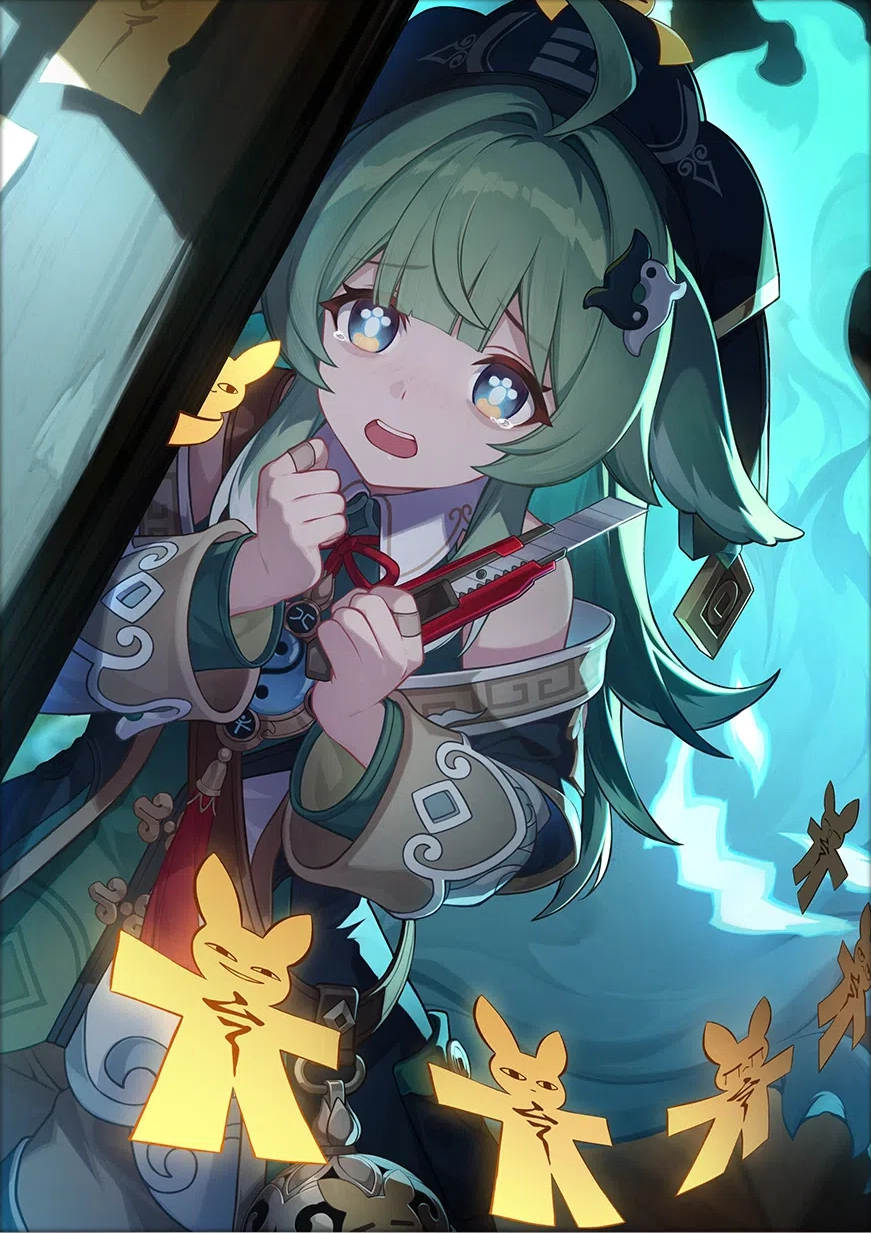
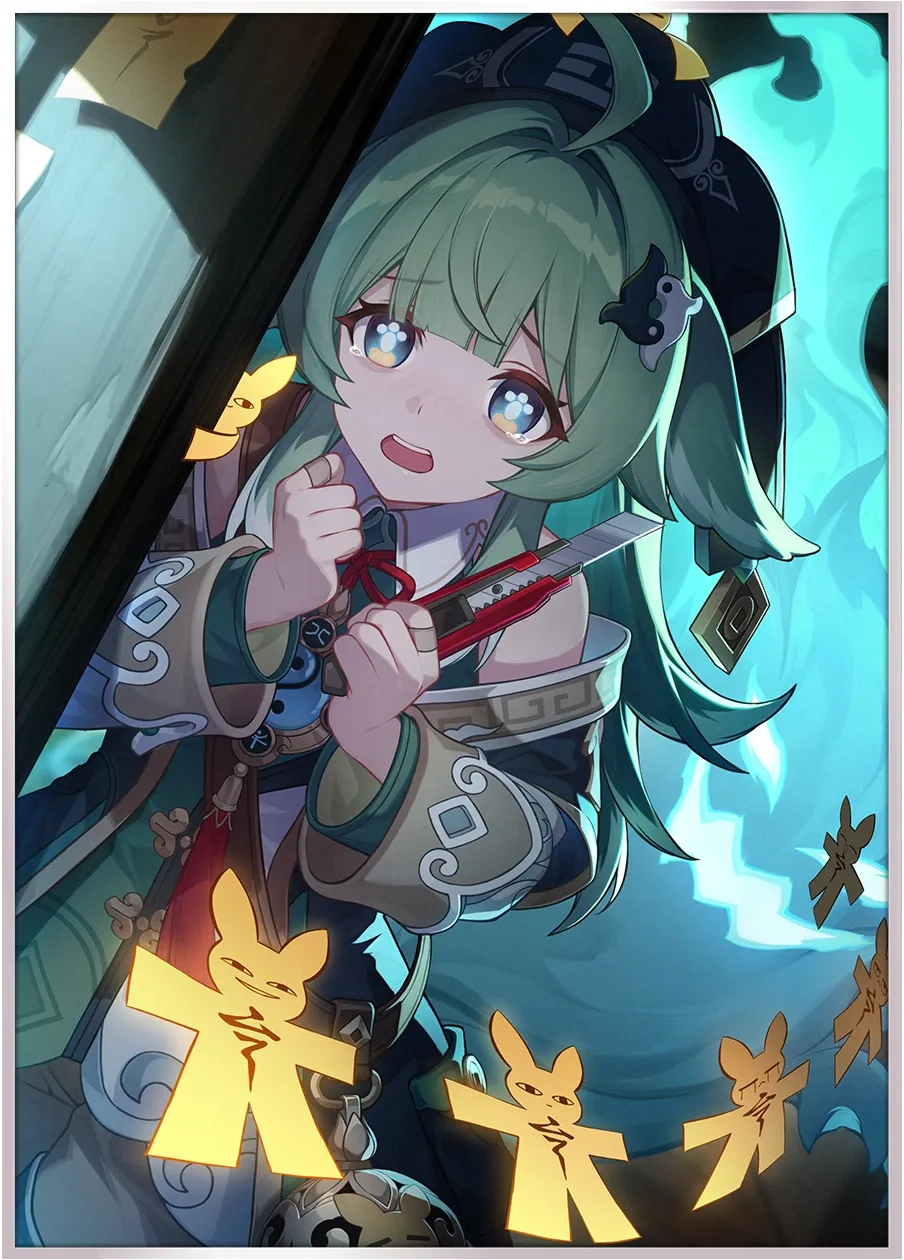
update viền

diff --git a/src/data/tierlist.ts b/src/data/tierlist.ts
@@ -22,34 +22,34 @@ type TierListData = {
 // Dữ liệu mẫu
 const tierList: TierListData = {
   'Memory of Chaos': {
-    T0: { DPS: ['aglaea','anaxa','archer','castorice','phainon'], 'Support DPS': ['tribbie'], Amplifier: ['cipher','robin','sunday','male-remembrance'], Sustain: ['huohuo','hyacine'] },
-    T0_5: { DPS: ['mydei','saber','therta'], 'Support DPS': ['jade'], Amplifier: ['ruan-mei','silver-wolf'], Sustain: ['aventurine','gallagher','lingsha'] },
-    T1: { DPS: ['acheron','blade','feixiao','rappa','yunli'], 'Support DPS': ['argenti','black-swan','herta','kafka','topaz-numby'], Amplifier: ['bronya','jiaoqiu','sparkle','fugue'], Sustain: ['luocha'] },
-    T1_5: { DPS: ['boothill','firefly','jing-yuan','jingliu'], 'Support DPS': ['march-7th-the-hunt','serval'], Amplifier: ['pela','tingyun'], Sustain: ['fu-xuan'] },
+    T0: { DPS: ['anaxa','archer','castorice','hysilens','phainon'], 'Support DPS': ['tribbie'], Amplifier: ['cipher','robin','sunday','male-remembrance'], Sustain: ['huohuo','hyacine'] },
+    T0_5: { DPS: ['aglaea','mydei','saber','therta'], 'Support DPS': ['jade','kafka'], Amplifier: ['bronya','ruan-mei','silver-wolf','sparkle'], Sustain: ['aventurine','gallagher','lingsha'] },
+    T1: { DPS: ['acheron','blade','feixiao','jingliu','yunli'], 'Support DPS': ['argenti','black-swan','herta','topaz-numby'], Amplifier: ['jiaoqiu','tingyun'], Sustain: ['luocha'] },
+    T1_5: { DPS: ['boothill','firefly','jing-yuan','rappa'], 'Support DPS': ['march-7th-the-hunt','serval'], Amplifier: ['pela','fugue'], Sustain: ['fu-xuan'] },
     T2: { DPS: ['himeko'], 'Support DPS': ['moze'], Amplifier: ['male-harmony'], Sustain: [] },
     T3: { DPS: ['clara','dr-ratio','dan-heng-imbibitor-lunae','qingque','seele'], 'Support DPS': [], Amplifier: ['asta','guinaifen'], Sustain: ['bailu','lynx'] },
     T4: { DPS: ['luka','xueyi'], 'Support DPS': ['sampo','welt'], Amplifier: ['hanya'], Sustain: ['gepard'] },
-    T5: { DPS: ['arlan','dan-heng','hook','misha','sushang','male-destruction','yanqing'], 'Support DPS': [], Amplifier: ['yukong'], Sustain: ['march-7th','natasha','male-preservation'] },
+    T5: { DPS: ['arlan','dan-heng','hook','misha','sushang','male-destruction','xueyi','yanqing'], 'Support DPS': [], Amplifier: ['yukong'], Sustain: ['march-7th','natasha','male-preservation'] },
   },
   'Pure Fiction': {
     T0: { DPS: ['castorice','therta'], 'Support DPS': ['jade','tribbie'], Amplifier: ['male-remembrance'], Sustain: ['hyacine'] },
-    T0_5: { DPS: ['anaxa','argenti','phainon'], 'Support DPS': ['herta'], Amplifier: ['robin','ruan-mei','sunday'], Sustain: ['aventurine','huohuo','lingsha'] },
-    T1: { DPS: ['acheron','blade','jing-yuan','rappa','saber'], 'Support DPS': ['black-swan','kafka','serval'], Amplifier: ['cipher','jiaoqiu','fugue'], Sustain: ['fu-xuan','gallagher','luocha'] },
-    T1_5: { DPS: ['aglaea','mydei'], 'Support DPS': [], Amplifier: ['pela','silver-wolf','sparkle','male-harmony'], Sustain: [] },
-    T2: { DPS: ['himeko','yunli'], 'Support DPS': [], Amplifier: ['bronya','tingyun'], Sustain: [] },
-    T3: { DPS: ['clara','feixiao','firefly','jingliu'], 'Support DPS': [], Amplifier: [], Sustain: ['gepard'] },
-    T4: { DPS: ['dan-heng-imbibitor-lunae','qingque','seele','xueyi'], 'Support DPS': ['march-7th-the-hunt','topaz-numby','welt'], Amplifier: ['asta','guinaifen'], Sustain: ['bailu','lynx'] },
-    T5: { DPS: ['archer','arlan','boothill','dan-heng','dr-ratio','hook'], 'Support DPS': ['moze','sampo'], Amplifier: ['hanya','yukong'], Sustain: ['march-7th','natasha','male-preservation'] },
+    T0_5: { DPS: ['anaxa','argenti','hysilens','phainon'], 'Support DPS': ['herta','kafka'], Amplifier: ['cipher','robin','ruan-mei','sunday'], Sustain: ['aventurine','huohuo','lingsha'] },
+    T1: { DPS: ['acheron','blade','jing-yuan','rappa','saber'], 'Support DPS': ['black-swan','serval'], Amplifier: ['bronya','jiaoqiu','sparkle','tingyun','fugue'], Sustain: ['fu-xuan','gallagher','luocha'] },
+    T1_5: { DPS: ['aglaea','mydei'], 'Support DPS': [], Amplifier: ['pela','silver-wolf','male-harmony'], Sustain: [] },
+    T2: { DPS: ['himeko','yunli'], 'Support DPS': [], Amplifier: [], Sustain: [] },
+    T3: { DPS: ['clara','feixiao','firefly','jingliu'], 'Support DPS': [], Amplifier: [], Sustain: ['bailu','lynx'] },
+    T4: { DPS: ['seele'], 'Support DPS': ['march-7th-the-hunt','topaz-numby'], Amplifier: ['guinaifen'], Sustain: ['gepard'] },
+    T5: { DPS: ['archer','arlan','boothill','dan-heng','dr-ratio','hook','dan-heng-imbibitor-lunae','luka','misha','qingque','sushang','male-destruction','xueyi','yanqing'], 'Support DPS': ['moze','sampo','welt'], Amplifier: ['asta','hanya','yukong'], Sustain: ['march-7th','natasha','male-preservation'] },
   },
   'Apocalyptic Shadow': {
-    T0: { DPS: ['anaxa','archer','castorice','feixiao','phainon','therta'], 'Support DPS': ['tribbie'], Amplifier: ['cipher','robin','ruan-mei','silver-wolf','sunday','male-remembrance'], Sustain: ['hyacine'] },
-    T0_5: { DPS: ['aglaea','boothill','firefly','mydei','saber'], 'Support DPS': ['jade','march-7th-the-hunt'], Amplifier: ['bronya','sparkle','fugue'], Sustain: ['aventurine','gallagher','huohuo','lingsha'] },
-    T1: { DPS: ['acheron','jingliu','rappa'], 'Support DPS': ['argenti','herta','topaz-numby'], Amplifier: ['jiaoqiu','tingyun','male-harmony'], Sustain: ['fu-xuan','luocha'] },
-    T1_5: { DPS: ['blade','yunli'], 'Support DPS': ['black-swan','kafka','serval'], Amplifier: ['pela'], Sustain: [] },
-    T2: { DPS: ['himeko','jing-yuan'], 'Support DPS': ['moze'], Amplifier: [], Sustain: ['bailu','gepard'] },
+    T0: { DPS: ['anaxa','archer','castorice','feixiao','phainon'], 'Support DPS': ['tribbie'], Amplifier: ['cipher','robin','ruan-mei','silver-wolf','sunday','male-remembrance'], Sustain: ['hyacine'] },
+    T0_5: { DPS: ['aglaea','boothill','firefly','mydei','saber','therta'], 'Support DPS': ['march-7th-the-hunt'], Amplifier: ['bronya','sparkle','tingyun','fugue'], Sustain: ['aventurine','gallagher','huohuo','lingsha'] },
+    T1: { DPS: ['blade','hysilens','rappa'], 'Support DPS': ['jade','kafka','topaz-numby'], Amplifier: ['jiaoqiu','male-harmony'], Sustain: ['fu-xuan','luocha'] },
+    T1_5: { DPS: ['acheron','jingliu','yunli'], 'Support DPS': ['argenti','black-swan','herta'], Amplifier: ['pela'], Sustain: [] },
+    T2: { DPS: ['himeko','jing-yuan'], 'Support DPS': ['moze','serval'], Amplifier: [], Sustain: ['bailu','gepard'] },
     T3: { DPS: ['clara','dr-ratio','dan-heng-imbibitor-lunae','seele'], 'Support DPS': [], Amplifier: ['asta','hanya'], Sustain: ['lynx'] },
-    T4: { DPS: ['qingque','sushang','xueyi'], 'Support DPS': ['welt'], Amplifier: ['guinaifen','yukong'], Sustain: [] },
-    T5: { DPS: ['arlan','dan-heng','hook','luka','misha','male-destruction','yanqing'], 'Support DPS': ['sampo'], Amplifier: [], Sustain: ['march-7th','natasha','male-preservation'] },
+    T4: { DPS: ['sushang','xueyi'], 'Support DPS': ['welt'], Amplifier: ['guinaifen','yukong'], Sustain: [] },
+    T5: { DPS: ['arlan','dan-heng','hook','luka','misha','qingque','male-destruction','yanqing'], 'Support DPS': ['sampo'], Amplifier: [], Sustain: ['march-7th','natasha','male-preservation'] },
   }
 };
 

diff --git a/src/routes/tierlist/+page.svelte b/src/routes/tierlist/+page.svelte
@@ -101,23 +101,26 @@
   {#each gameModes as mode}
     <!-- svelte-ignore a11y-click-events-have-key-events -->
     <div
-      class={`relative h-20 md:h-40 border rounded-lg shadow-lg cursor-pointer overflow-hidden group transition duration-300 ${
-        selectedMode === mode.id ? 'border-white/100 brightness-100' : 'border-white/20 brightness-75 hover:brightness-90'
-      }`}
+      class="mode-card"
+      class:selected={selectedMode === mode.id}
+      class:unselected={selectedMode !== mode.id}
       on:click={() => (selectedMode = mode.id)}
     >
-      <img
-        src={mode.image}
-        alt={mode.label}
-        class="absolute inset-0 w-full h-full object-cover group-hover:scale-110 transition-transform duration-300"
-      />
-      <div class="absolute inset-0 bg-black/40" />
-      <div class="absolute inset-0 flex items-center justify-center">
-        <span class="text-white text-2xl font-bold" style="text-shadow: 1.5px 1.5px 1.5px black">{mode.label}</span>
+      <div class="mode-card-content">
+        <img
+          src={mode.image}
+          alt={mode.label}
+          class="absolute inset-0 w-full h-full object-cover"
+        />
+        <div class="absolute inset-0 bg-black/40" />
+        <div class="absolute inset-0 flex items-center justify-center">
+          <span class="mode-label">{mode.label}</span>
+        </div>
       </div>
     </div>
   {/each}
 </div>
+
 
 <!-- Title -->
 <h2 class="text-2xl font-bold text-center mb-2">
@@ -193,3 +196,109 @@
   <TierTableMobile data={tierList[selectedMode]} isVisible={isVisibleFn} {editMode} 
     on:update={(e) => tierList[selectedMode] = e.detail} />
 </div>
+
+<style>
+  .mode-card {
+    position: relative;
+    border-radius: 0.75em;
+    cursor: pointer;
+    height: 80px;
+    overflow: hidden;
+    transition: all 0.3s;
+  }
+
+  @media (min-width: 768px) {
+    .mode-card {
+      height: 160px;
+    }
+  }
+
+  /* Viền gradient dày hơn */
+  .mode-card::before {
+    content: "";
+    position: absolute;
+    inset: -3px; /* tăng độ dày */
+    border-radius: inherit;
+    background: linear-gradient(
+      50deg,
+      transparent 5%,
+      rgb(255, 222, 156) 50%,
+      transparent 99%
+    );
+    opacity: 0;
+    transition: opacity 400ms;
+    z-index: 0;
+  }
+
+  .mode-card:hover::before {
+    opacity: 1;
+  }
+
+  /* Card được chọn */
+  .mode-card.selected::before {
+    opacity: 1;
+    box-shadow: 
+      0 0 20px rgba(255, 200, 120, 0.9),
+      0 0 40px rgba(255, 200, 120, 0.7),
+      0 0 80px rgba(255, 200, 120, 0.5),
+      0 0 120px rgba(255, 200, 120, 0.3);
+    filter: drop-shadow(0 0 25px rgba(255, 200, 120, 0.3));
+  }
+
+  /* Nội dung */
+  .mode-card-content {
+    position: absolute;
+    inset: 1px;
+    border-radius: inherit;
+    background-color: rgba(20, 20, 20, 0.8);
+    overflow: hidden;
+    z-index: 1;
+    transition: filter 0.3s;
+  }
+
+  .mode-label {
+    color: white;
+    font-weight: bold;
+    font-size: 1.25rem;
+    text-align: center;
+    text-shadow: 1.5px 1.5px 1.5px black;
+    transition: opacity 0.3s, filter 0.3s;
+  }
+
+  @media (min-width: 768px) {
+    .mode-label {
+      font-size: 1.5rem;
+    }
+  }
+
+  /* Chưa được chọn → tối hơn */
+  .mode-card.unselected img {
+    filter: brightness(60%);
+  }
+
+  .mode-card.unselected .mode-label {
+    opacity: 0.6;
+  }
+
+  /* Hover làm sáng hơn một chút */
+  .mode-card.unselected:hover img {
+    filter: brightness(75%);
+  }
+
+  /* Selected luôn sáng rõ */
+  .mode-card.selected img {
+    filter: brightness(100%);
+  }
+
+  .mode-card.selected .mode-label {
+    opacity: 1;
+  }
+
+  /* Zoom nhẹ khi hover */
+  .mode-card img {
+    transition: transform 300ms, filter 300ms;
+  }
+  .mode-card:hover img {
+    transform: scale(1.1);
+  }
+</style>

diff --git a/src/routes/lightcones/[id]/+page.svelte b/src/routes/lightcones/[id]/+page.svelte
@@ -50,6 +50,20 @@
     abundance: 'Trù Phú',
     remembrance: 'Ký Ức'
   }
+
+  let container: HTMLElement;
+
+	const handleMouseMove = (e: MouseEvent) => {
+		const rect = container.getBoundingClientRect();
+		const x = e.clientX - rect.left;
+		const y = e.clientY - rect.top;
+		container.style.setProperty('--x', `${x}px`);
+		container.style.setProperty('--y', `${y}px`);
+	};
+  const handleMouseLeave = () => {
+		container.style.setProperty('--x', `50%`);
+		container.style.setProperty('--y', `50%`);
+	};
 </script>
 
 <section class="text-white">
@@ -157,7 +171,7 @@
         <div class="flex gap-2">
           <div
             class="
-              mt-2 p-3 md:p2 bg-dark/50 rounded-xl box
+              mt-2 p-3 md:p2 bg-dark/50 rounded-xl border-gradient
               overflow-x-auto md:overflow-visible
               w-full
               flex md:grid
@@ -168,6 +182,9 @@
             grid-template-columns: repeat(auto-fit, minmax(7rem, max-content));
             justify-content: center;
           "
+          bind:this={container}
+          on:mousemove={handleMouseMove}
+          on:mouseleave={handleMouseLeave}
           >
             {#each lightcone.recommendedFor as id}
               {#if getCharacter(id)}
@@ -232,45 +249,17 @@ input[type="range"].range-gradient::-moz-range-thumb {
   cursor: pointer;
 }
 
-  .box {
+  .border-gradient {
+		--x: 50%;
+		--y: 50%;
 
-		display: grid;
-		place-content: center;
-		color: #fff;
-		text-shadow: 0 1px 0 #000;
-		
-		--border-angle: 0turn; /* for animation */
-		--main-bg: conic-gradient(from var(--border-angle), #000);
-
-		border: solid 2px transparent;
-		border-radius: 1em;
-		
-		--gradient-border: conic-gradient(
-			from var(--border-angle),
-			transparent 0%,
-			#4f78be,
-			#b087ff 50%,
-      #fbcd74 100%,
-			transparent
-		);
-
+		border: 3px solid transparent;
+		border-radius: 12px;
+		padding: 1rem;
 		background:
-			var(--main-bg) padding-box,            /* fill content */
-			var(--gradient-border) border-box,    /* gradient border */
-			var(--main-bg) border-box;            /* fallback */
-
-		background-position: center;
-		animation: bg-spin 8s linear infinite;
-	}
-
-	@property --border-angle {
-		syntax: "<angle>";
-		inherits: true;
-		initial-value: 0turn;
-	}
-
-	@keyframes bg-spin {
-		to { --border-angle: 1turn; }
+			linear-gradient(#000, #000) padding-box,
+			radial-gradient(farthest-corner at var(--x) var(--y), #00C9A7, #845EC2) border-box;
+		transition: background-position .15s;
 	}
 
 </style>

diff --git a/src/routes/lightcones/+page.svelte b/src/routes/lightcones/+page.svelte
@@ -95,7 +95,7 @@
     <input type="text" class="form__field" placeholder="Name"
 		bind:value={searchQuery}
 		on:input={filterList}>
-    <label for="name" class="form__label">Tìm kiếm</label>
+    <label for="name" class="form__label">Tìm Kiếm</label>
 </div>
 
 <div class="flex flex-wrap justify-center gap-x-8 gap-y-4 md:justify-start mb-8">

diff --git a/src/routes/relics/+page.svelte b/src/routes/relics/+page.svelte
@@ -89,7 +89,7 @@
     <input type="text" class="form__field" placeholder="Name"
 		bind:value={searchQuery}
 		on:input={filterList}>
-    <label for="name" class="form__label">Tìm kiếm</label>
+    <label for="name" class="form__label">Tìm Kiếm</label>
 </div>
 
 <!-- Bộ lọc -->
